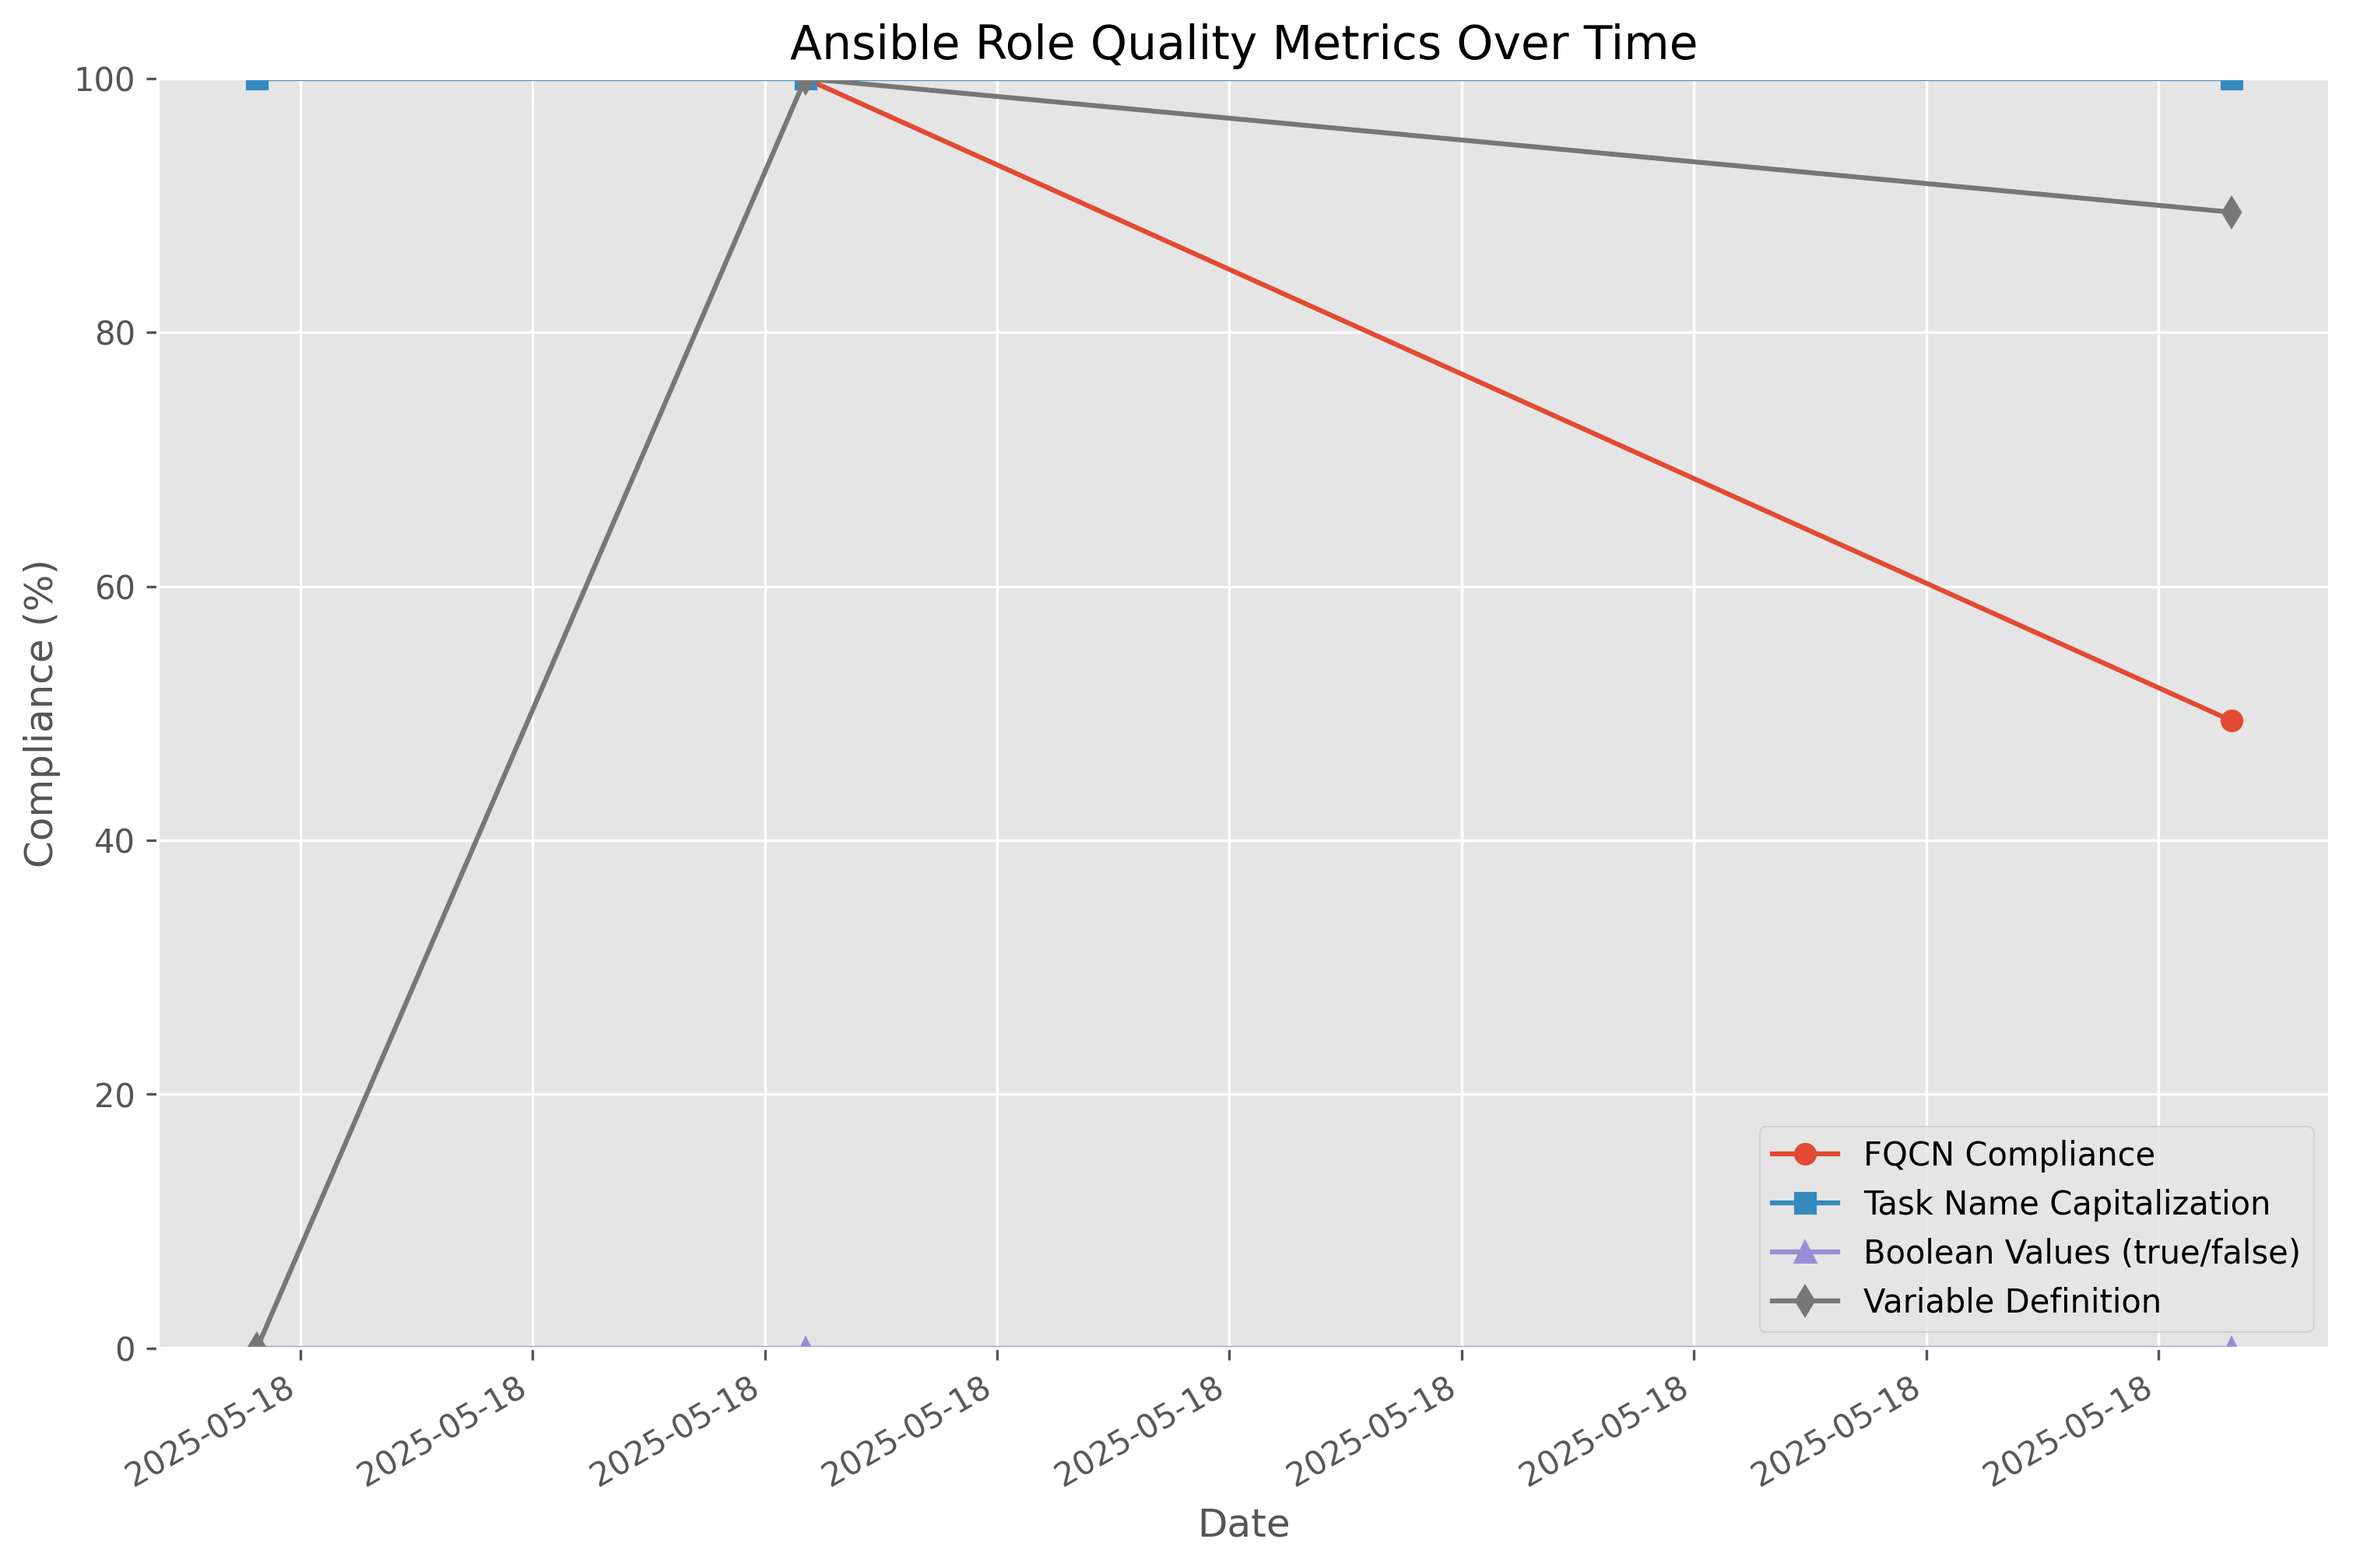
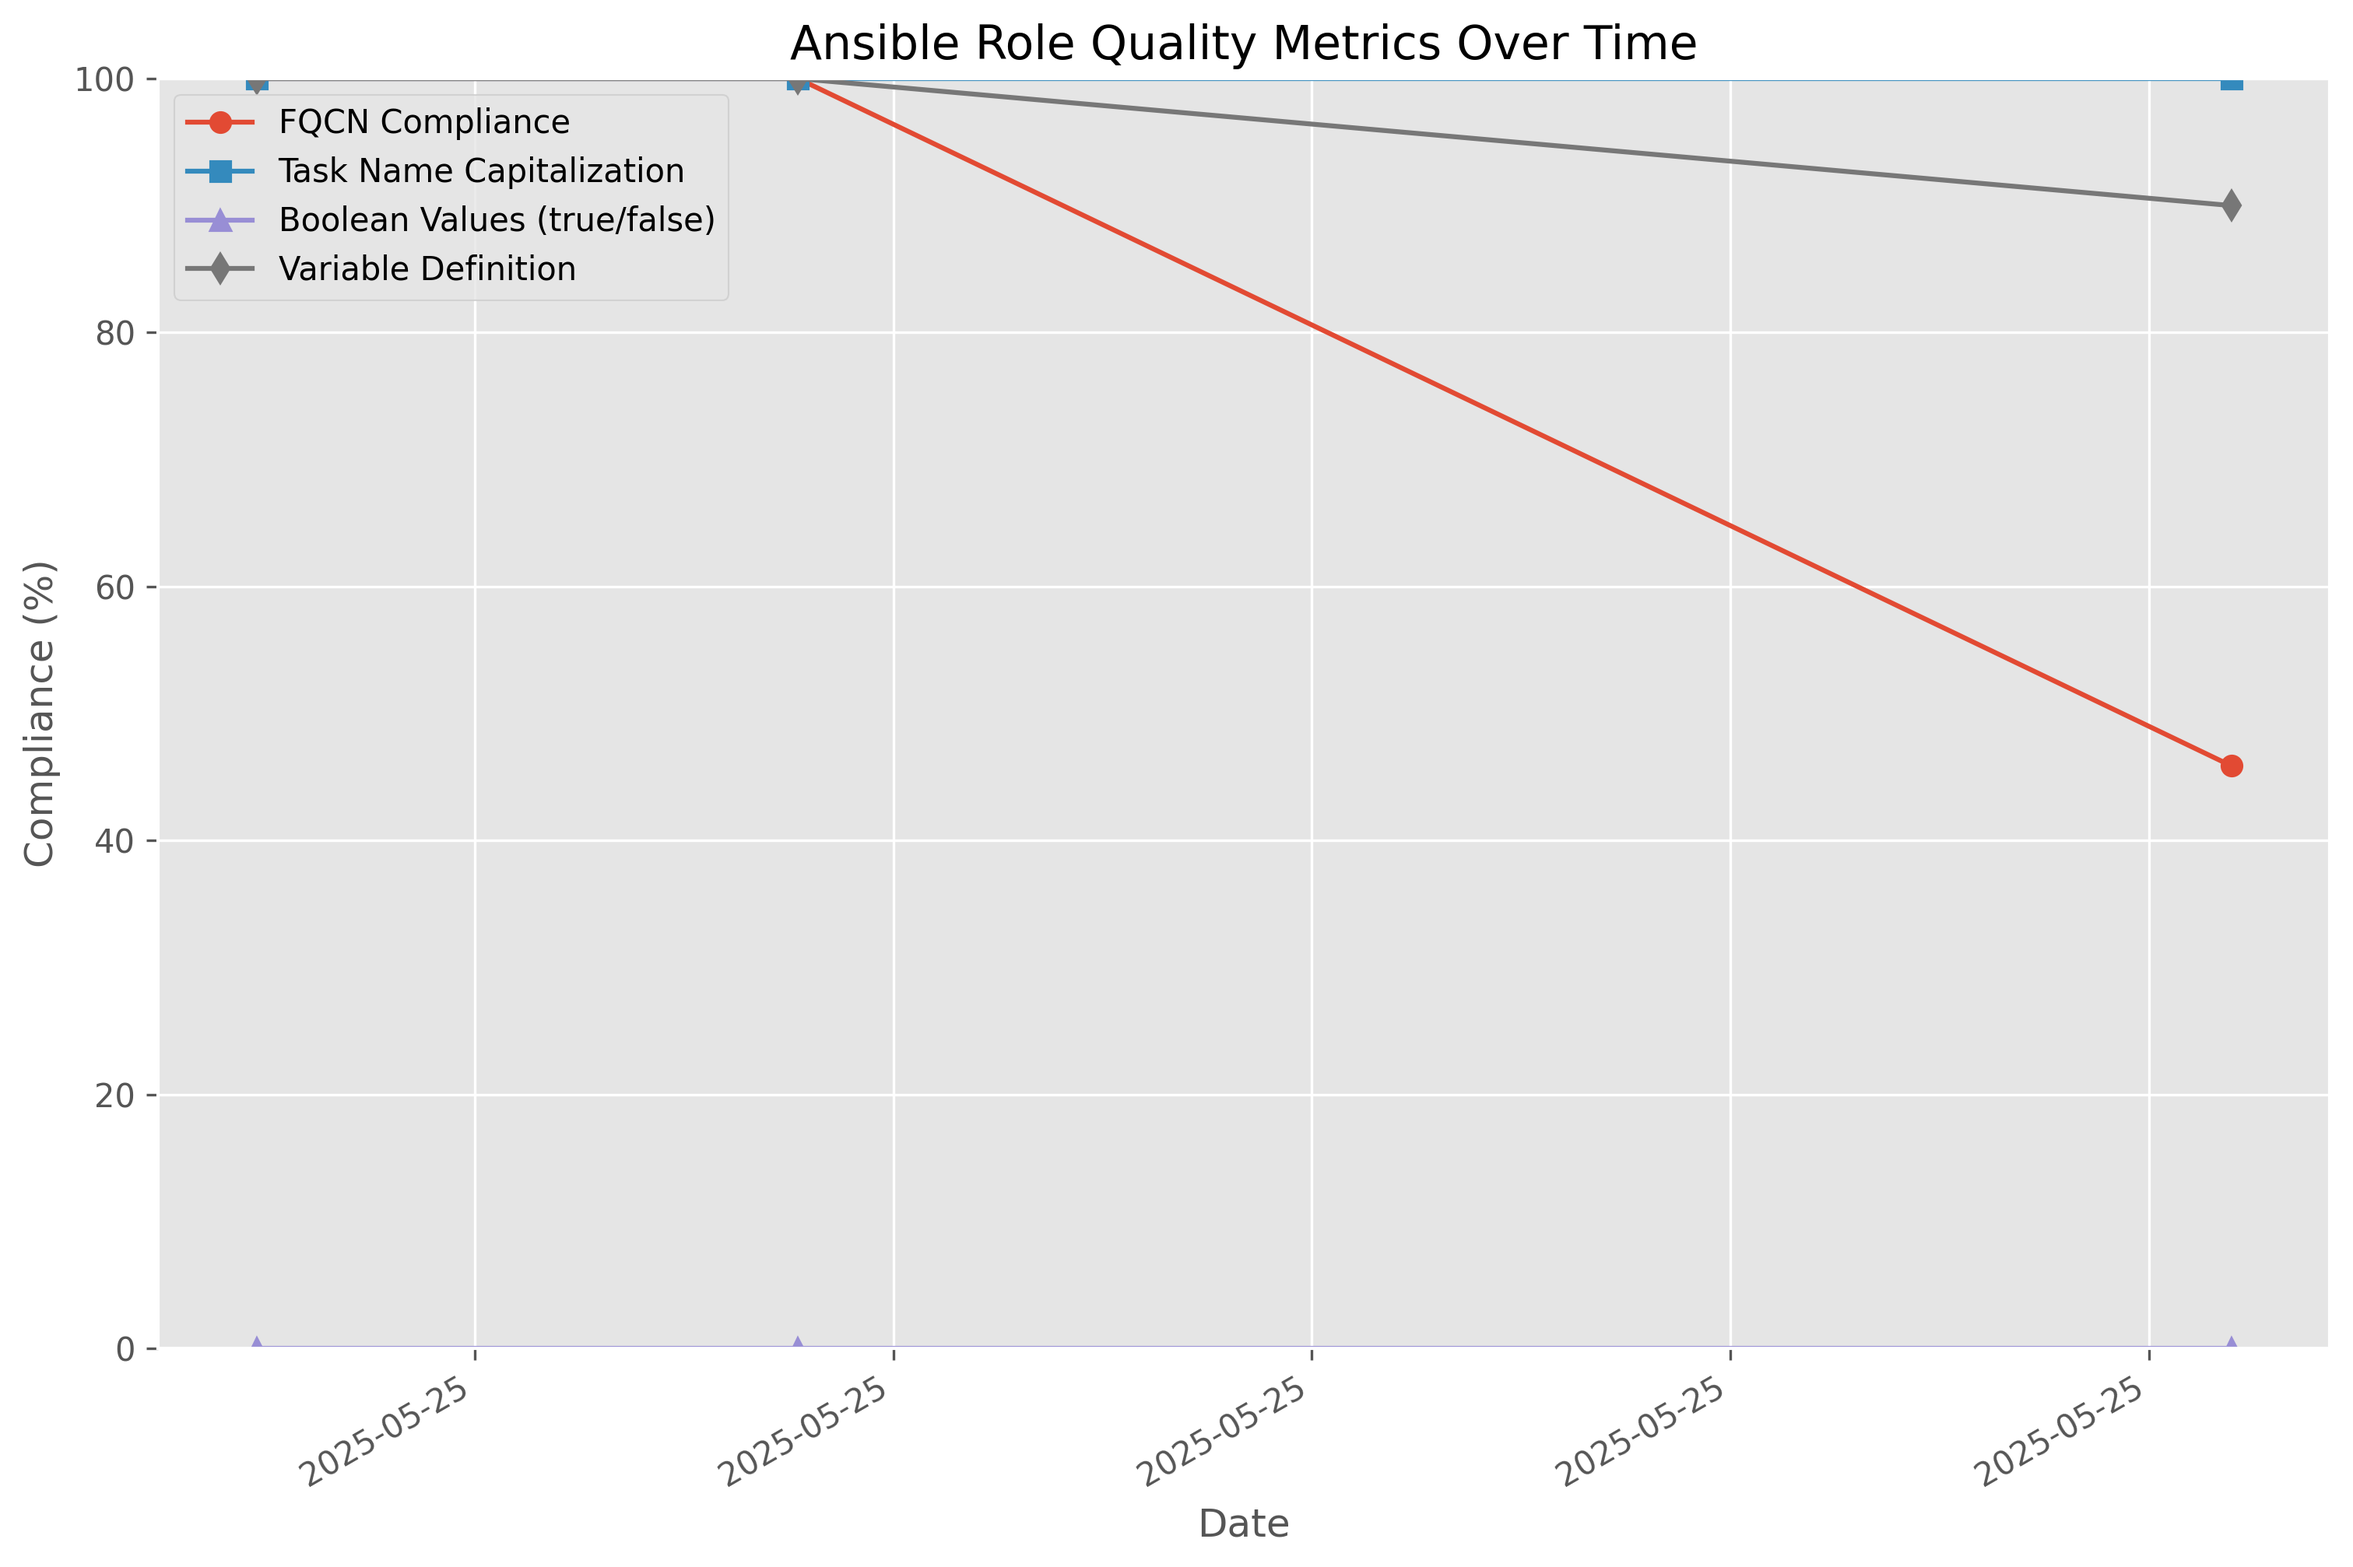
Update metrics (automated) 86381e575e3cb567ae7d61f2b827ec3665fe9a28

diff --git a/metrics/metrics_summary.md b/metrics/metrics_summary.md
@@ -1,15 +1,15 @@
 # Chef to Ansible Conversion Metrics
 
-Last updated: 2025-05-18 01:46:41
+Last updated: 2025-05-25 00:30:14
 
 ## Latest Compliance Metrics
 
 | Metric | Value |
 |--------|-------|
-| FQCN Compliance (%) | 49.44% |
+| FQCN Compliance (%) | 45.88% |
 | Task Name Capitalization (%) | 100.00% |
 | Boolean Values (true/false) (%) | 0.00% |
-| Variable Definition (%) | 89.47% |
+| Variable Definition (%) | 90.00% |
 
 ## Compliance Metrics Over Time
 
